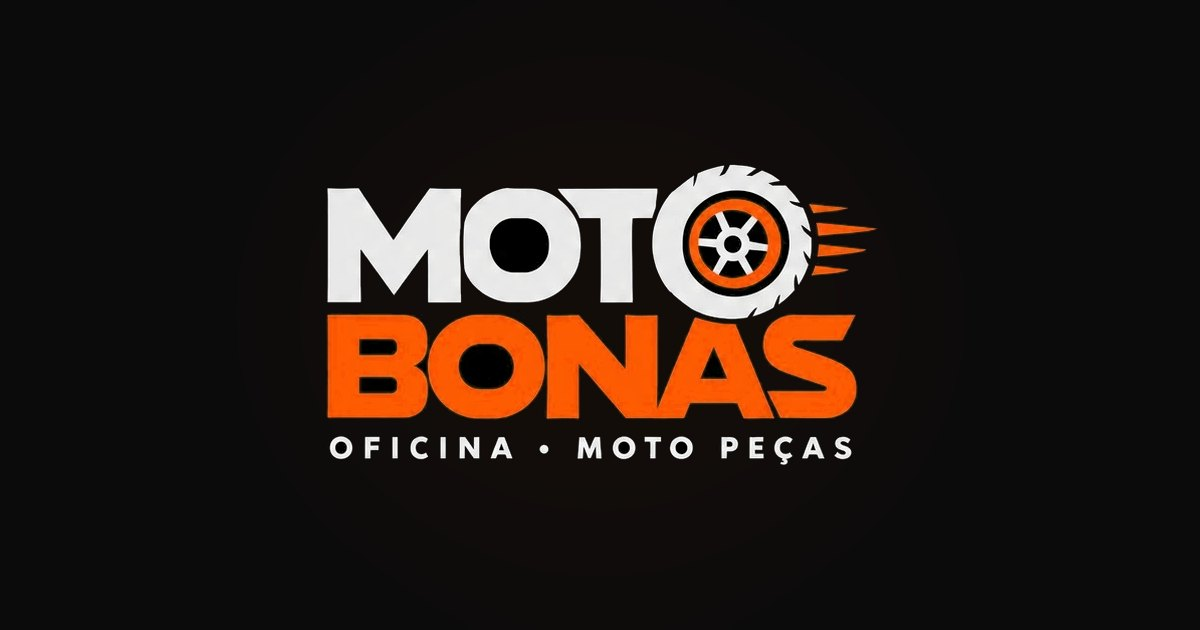
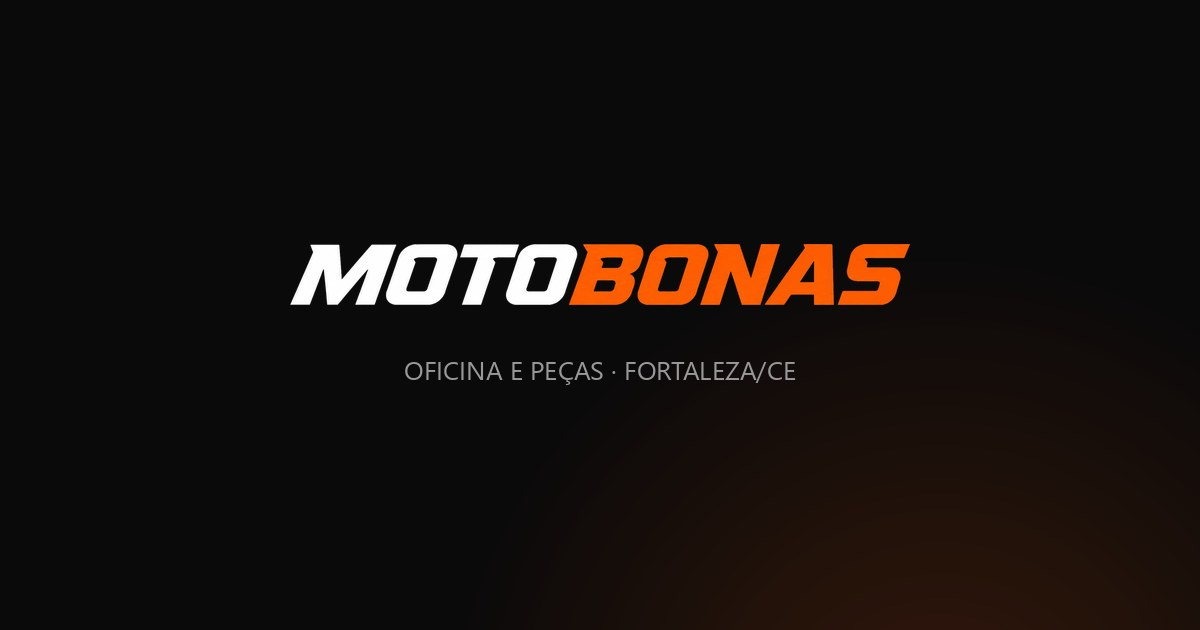
ss

Changed region(s): [[0.2467, 0.2413, 0.7708, 0.6635], [0.6167, 0.8444, 0.925, 1.0], [0.2775, 0.6937, 0.7092, 0.754]]

diff --git a/index.html b/index.html
@@ -13,22 +13,22 @@
 <meta property="og:url" content="https://motobonas.com.br/">
 <meta property="og:title" content="MOTOBONAS | Oficina e Peças para Motos">
 <meta property="og:description" content="Entra moto. Sai máquina. Oficina especializada e peças em Fortaleza/CE.">
-<meta property="og:image" content="https://motobonas.com.br/assets/og-image.jpg">
+<meta property="og:image" content="https://motobonas.com.br/assets/og-image-2026.jpg">
 <meta property="og:image:width" content="1200">
 <meta property="og:image:height" content="630">
 <meta property="og:image:alt" content="Motobonas — oficina e peças para motos em Fortaleza">
 <meta name="twitter:card" content="summary_large_image">
 <meta name="twitter:title" content="MOTOBONAS | Oficina e Peças para Motos">
 <meta name="twitter:description" content="Entra moto. Sai máquina. Oficina especializada e peças em Fortaleza/CE.">
-<meta name="twitter:image" content="https://motobonas.com.br/assets/og-image.jpg">
+<meta name="twitter:image" content="https://motobonas.com.br/assets/og-image-2026.jpg">
 <link rel="icon" href="/favicon.ico" sizes="any">
-<link rel="apple-touch-icon" href="assets/favicon.png">
+<link rel="apple-touch-icon" href="assets/apple-touch-icon.png">
 <link rel="preload" href="assets/fonts/inter-latin.woff2" as="font" type="font/woff2" crossorigin>
 <link rel="preload" as="image" href="assets/hero-800.webp" media="(max-width:640px)">
 <link rel="preload" as="image" href="assets/hero-1200.webp" media="(min-width:641px)">
 <script>document.documentElement.className+=' js';</script>
 <script type="application/ld+json">
-{"@context":"https://schema.org","@type":"AutoRepair","@id":"https://motobonas.com.br/#oficina","name":"Moto Bonas Peças Acessórios Serviços","description":"Oficina especializada em motos de média e alta cilindrada e loja de peças originais em Fortaleza/CE.","telephone":"+55-85-99400-2002","url":"https://motobonas.com.br","image":"https://motobonas.com.br/assets/og-image.jpg","logo":"https://motobonas.com.br/assets/logo-2026-320.webp","priceRange":"$$","foundingDate":"2004-05-05","currenciesAccepted":"BRL","address":{"@type":"PostalAddress","streetAddress":"Rua 24 de Maio, 1102","addressLocality":"Fortaleza","addressRegion":"CE","postalCode":"60020-000","addressCountry":"BR"},"geo":{"@type":"GeoCoordinates","latitude":-3.7312172,"longitude":-38.5334497},"hasMap":"https://www.google.com/maps/search/?api=1&query=Moto+Bonas+Rua+24+de+Maio+1102+Centro+Fortaleza","areaServed":{"@type":"City","name":"Fortaleza"},"openingHoursSpecification":[{"@type":"OpeningHoursSpecification","dayOfWeek":["Monday","Tuesday","Wednesday","Thursday","Friday"],"opens":"08:00","closes":"17:30"},{"@type":"OpeningHoursSpecification","dayOfWeek":"Saturday","opens":"08:00","closes":"13:00"}],"sameAs":["https://www.instagram.com/moto_bonas","https://www.mercadolivre.com.br/pagina/motobonas"],"aggregateRating":{"@type":"AggregateRating","ratingValue":"4.6","reviewCount":"114"}}
+{"@context":"https://schema.org","@type":"AutoRepair","@id":"https://motobonas.com.br/#oficina","name":"Moto Bonas Peças Acessórios Serviços","description":"Oficina especializada em motos de média e alta cilindrada e loja de peças originais em Fortaleza/CE.","telephone":"+55-85-99400-2002","url":"https://motobonas.com.br","image":"https://motobonas.com.br/assets/og-image-2026.jpg","logo":"https://motobonas.com.br/assets/logo-mb-dark-800.webp","priceRange":"$$","foundingDate":"2004-05-05","currenciesAccepted":"BRL","address":{"@type":"PostalAddress","streetAddress":"Rua 24 de Maio, 1102","addressLocality":"Fortaleza","addressRegion":"CE","postalCode":"60020-000","addressCountry":"BR"},"geo":{"@type":"GeoCoordinates","latitude":-3.7312172,"longitude":-38.5334497},"hasMap":"https://www.google.com/maps/search/?api=1&query=Moto+Bonas+Rua+24+de+Maio+1102+Centro+Fortaleza","areaServed":{"@type":"City","name":"Fortaleza"},"openingHoursSpecification":[{"@type":"OpeningHoursSpecification","dayOfWeek":["Monday","Tuesday","Wednesday","Thursday","Friday"],"opens":"08:00","closes":"17:30"},{"@type":"OpeningHoursSpecification","dayOfWeek":"Saturday","opens":"08:00","closes":"13:00"}],"sameAs":["https://www.instagram.com/moto_bonas","https://www.mercadolivre.com.br/pagina/motobonas"],"aggregateRating":{"@type":"AggregateRating","ratingValue":"4.6","reviewCount":"114"}}
 </script>
 <script type="application/ld+json">
 {"@context":"https://schema.org","@type":"FAQPage","mainEntity":[
@@ -75,7 +75,14 @@ header{position:fixed;top:0;left:0;right:0;z-index:50;display:flex;align-items:c
   padding:20px clamp(20px,4vw,60px);transition:.4s;border-bottom:1px solid transparent}
 header.scrolled{background:rgba(0,0,0,.9);backdrop-filter:blur(12px);border-bottom-color:var(--line-soft)}
 .brand{display:flex;align-items:center;gap:14px}
-.brand img{height:46px;width:auto;object-fit:contain;filter:invert(1) hue-rotate(180deg)}
+.brand img{height:clamp(20px,3vw,32px);width:auto;object-fit:contain}
+.brand .lg-light{display:none}
+img.lg-light{display:none}
+html[data-theme="light"] img.lg-dark{display:none}
+html[data-theme="light"] img.lg-light{display:block}
+/* menu móvel é sempre escuro: usa sempre a logo clara */
+html[data-theme="light"] .mnav-brand img.lg-dark{display:block}
+html[data-theme="light"] .mnav-brand img.lg-light{display:none}
 .brand .bt{font-size:12px;font-weight:400;letter-spacing:.24em;line-height:1.6}
 .brand .bt b{color:var(--accent);font-weight:500}
 nav.desk{display:flex;gap:36px;font-size:12px;font-weight:400;letter-spacing:.2em}
@@ -245,7 +252,7 @@ footer{border-top:1px solid var(--line);padding:70px 0 44px}
 .foot-grid{display:grid;grid-template-columns:1.2fr .8fr 1fr;gap:clamp(24px,5vw,70px);margin:40px 0 44px;align-items:start}
 .foot-grid .m{font-size:11px;letter-spacing:.2em;color:var(--dim);line-height:2.2}
 .foot-grid .m b{color:var(--accent);font-weight:500}
-.fcol img{margin-bottom:20px;height:auto;max-width:150px;filter:invert(1) hue-rotate(180deg)}
+.fcol img{margin-bottom:20px;height:auto;max-width:190px}
 .fh{font-size:10px;letter-spacing:.26em;color:var(--accent);text-transform:uppercase;margin-bottom:14px}
 .fcol a{display:block;font-size:12px;letter-spacing:.14em;color:var(--dim);padding:7px 0;text-transform:uppercase;transition:.25s}
 .fcol a:hover{color:var(--accent)}
@@ -292,7 +299,8 @@ html[data-theme="light"]{--bg:#ffffff;--bg2:#f4f4f3;--ink:#101010;--dim:#5d5d5d;
   --line:rgba(0,0,0,.14);--line-soft:rgba(0,0,0,.07)}
 html[data-theme="light"] header{background:rgba(255,255,255,.78);backdrop-filter:blur(12px);-webkit-backdrop-filter:blur(12px);border-bottom:1px solid var(--line-soft)}
 html[data-theme="light"] header.scrolled{background:rgba(255,255,255,.94)}
-html[data-theme="light"] .brand img{filter:none}
+html[data-theme="light"] .brand .lg-dark{display:none}
+html[data-theme="light"] .brand .lg-light{display:block}
 html[data-theme="light"] .hero{color:#fff}
 html[data-theme="light"] .hero h1{color:#fff}
 html[data-theme="light"] .hero .lead{color:rgba(255,255,255,.74)}
@@ -331,7 +339,7 @@ html[data-theme="light"] .status.aberto{color:#0f7a3d}
     align-items:center;justify-content:center;gap:32px;opacity:0;pointer-events:none;transition:.4s}
   .mnav.open{opacity:1;pointer-events:auto}
   .mnav a{font-weight:300;font-size:34px;text-transform:uppercase;letter-spacing:.06em}
-  .mnav-brand img{width:132px;height:auto;object-fit:contain;margin-bottom:6px;filter:invert(1) hue-rotate(180deg)}
+  .mnav-brand img{width:auto;height:34px;object-fit:contain;margin-bottom:6px}
   .mnav a.on{color:var(--accent)}
   body.menu-open{overflow:hidden}
   body.menu-open header{z-index:80;background:transparent;border-bottom-color:transparent;backdrop-filter:none;-webkit-backdrop-filter:none}
@@ -362,7 +370,8 @@ html[data-theme="light"] .status.aberto{color:#0f7a3d}
 
 <header id="hdr">
   <a class="brand" href="#topo" aria-label="Motobonas - início">
-    <img src="assets/logo-2026-160.webp" srcset="assets/logo-2026-160.webp 160w, assets/logo-2026-320.webp 320w" sizes="80px" alt="Moto Bonas - Oficina e Moto Peças" width="80" height="46">
+    <img class="lg-dark" src="assets/logo-mb-dark-400.webp" srcset="assets/logo-mb-dark-400.webp 400w, assets/logo-mb-dark-800.webp 800w" sizes="320px" alt="Moto Bonas - Oficina e Moto Peças" width="400" height="39">
+    <img class="lg-light" src="assets/logo-mb-light-400.webp" srcset="assets/logo-mb-light-400.webp 400w, assets/logo-mb-light-800.webp 800w" sizes="320px" alt="" aria-hidden="true" width="400" height="39">
   </a>
   <nav class="desk" aria-label="Navegação principal">
     <a href="#oficina">A OFICINA</a>
@@ -382,7 +391,10 @@ html[data-theme="light"] .status.aberto{color:#0f7a3d}
   </div>
 </header>
 <nav class="mnav" id="mnav" aria-label="Menu móvel">
-  <a href="#topo" class="mnav-brand" aria-label="Motobonas - início"><img src="assets/logo-2026-320.webp" alt="Moto Bonas - Oficina e Moto Peças" width="132" height="76"></a>
+  <a href="#topo" class="mnav-brand" aria-label="Motobonas - início">
+    <img class="lg-dark" src="assets/logo-mb-dark-800.webp" alt="Moto Bonas - Oficina e Moto Peças" width="800" height="79">
+    <img class="lg-light" src="assets/logo-mb-light-800.webp" alt="" aria-hidden="true" width="800" height="79">
+  </a>
   <a href="#oficina">A oficina</a><a href="#servicos">Serviços</a><a href="#pecas">Peças</a><a href="#sobre">Sobre</a><a href="#equipe">Equipe</a><a href="#contato">Contato</a>
   <a class="on" href="https://wa.me/5585994002002?text=Ol%C3%A1!%20Vim%20pelo%20site%20da%20Motobonas." target="_blank" rel="noopener" data-wa>WhatsApp</a>
 </nav>
@@ -596,6 +608,10 @@ html[data-theme="light"] .status.aberto{color:#0f7a3d}
           <div class="info"><h3>Felipe</h3><p>Mecânico</p></div>
         </article>
         <article class="team-card rise">
+          <img src="equipe/Julia%20-%20Estoquista.png" width="400" height="400" alt="Julia, estoquista da Moto Bonas" loading="lazy" decoding="async">
+          <div class="info"><h3>Julia</h3><p>Estoquista</p></div>
+        </article>
+        <article class="team-card rise">
           <img src="equipe/Maicon%20-%20Chefe%20de%20Oficina.png" width="400" height="400" alt="Maicon, chefe de oficina da Moto Bonas" loading="lazy" decoding="async">
           <div class="info"><h3>Maicon</h3><p>Chefe de oficina</p></div>
         </article>
@@ -687,7 +703,7 @@ html[data-theme="light"] .status.aberto{color:#0f7a3d}
   <div class="wrap">
     <div class="foot-grid">
       <div class="fcol">
-        <img src="assets/logo-2026-320.webp" alt="Motobonas" width="150" height="86" loading="lazy">
+        <img src="assets/logo-mb-dark-800.webp" alt="Motobonas" width="400" height="39" loading="lazy">
         <p class="m"><b>MOTOBONAS</b> · PEÇAS E ACESSÓRIOS<br>OFICINA ESPECIALIZADA · FORTALEZA/CE<br>DESDE 2004</p>
       </div>
       <nav class="fcol" aria-label="Navegação do rodapé">

diff --git a/privacidade.html b/privacidade.html
@@ -9,7 +9,7 @@
 <meta name="robots" content="index,follow">
 <meta name="theme-color" content="#000000">
 <link rel="icon" href="assets/favicon.ico" sizes="any">
-<link rel="icon" type="image/png" href="assets/favicon.png">
+<link rel="icon" type="image/png" href="assets/favicon-2026.png">
 <link rel="preload" href="assets/fonts/inter-latin.woff2" as="font" type="font/woff2" crossorigin>
 <style>
 @font-face{font-family:'Inter';font-style:normal;font-weight:200 600;font-display:swap;
@@ -27,7 +27,7 @@ a:hover{text-decoration:underline}
 .wrap{max-width:820px;margin:0 auto;padding:clamp(28px,6vw,72px) clamp(20px,4vw,40px)}
 header{border-bottom:1px solid var(--line);padding-bottom:26px;margin-bottom:clamp(28px,5vw,52px)}
 .logo{display:inline-flex;align-items:center;gap:12px;margin-bottom:28px}
-.logo img{height:44px;width:auto;filter:invert(1) hue-rotate(180deg)}
+.logo img{height:26px;width:auto}
 h1{font-size:clamp(28px,4.6vw,44px);font-weight:300;letter-spacing:.02em;text-transform:uppercase;line-height:1.1}
 .sub{font-size:12px;letter-spacing:.22em;text-transform:uppercase;color:var(--dim);margin-top:14px}
 h2{font-size:16px;font-weight:500;letter-spacing:.06em;text-transform:uppercase;margin:36px 0 10px;color:var(--ink)}
@@ -45,7 +45,7 @@ footer a{color:var(--accent)}
 <body>
 <div class="wrap">
   <header>
-    <a class="logo" href="/" aria-label="Motobonas - página inicial"><img src="assets/logo-2026-320.webp" alt="Motobonas" width="150" height="86"></a>
+    <a class="logo" href="/" aria-label="Motobonas - página inicial"><img src="assets/logo-mb-dark-400.webp" alt="Motobonas" width="400" height="39"></a>
     <h1>Política de Privacidade</h1>
     <p class="sub">Última atualização: outubro de 2026</p>
   </header>

diff --git a/design.md b/design.md
@@ -35,6 +35,8 @@ Uma família só: **Inter** (variável, 200–600), self-hosted em `assets/fonts
 
 ## Imagens
 
+- **Logo**: duas variantes do wordmark (`Logo MOTOBONAS.png` com letras brancas para o tema escuro e `Logo MOTOBONAS em Preto.png` para o tema claro). Em `assets/`: `logo-mb-dark-{400,800,1200}.webp` e `logo-mb-light-{400,800,1200}.webp`, ambas RGBA com o laranja `#fd5d04` da marca preservado. O header troca por CSS (`img.lg-dark` / `img.lg-light`); o menu mobile é sempre escuro e por isso sempre usa a variante clara. Nenhuma das duas usa `filter` — o `invert(1)` antigo distorcia o laranja.
+- `assets/og-image.jpg` (1200x630) e `assets/favicon.png` (512x512) são gerados a partir da mesma marca.
 - Sempre `<picture>` com AVIF + WebP e `srcset` (480 / 800 / 1200 + maior), `sizes` coerente com o layout.
 - Fotos: `width`/`height` explícitos, `loading="lazy"`, `decoding="async"`.
 - Retratos da equipe ficam em `equipe/`, com `object-fit: cover` para preservar o enquadramento quadrado.

diff --git a/CHANGELOG.md b/CHANGELOG.md
@@ -1,5 +1,11 @@
 # Changelog — site Motobonas
 
+## Nov/2026 — logo oficial e novo colaborador
+
+- **Logo correta aplicada.** O site usava `logo-2026-*` com `filter:invert(1) hue-rotate(180deg)`, que distorcia o laranja da marca. Agora existem duas variantes reais do wordmark oficial: `assets/logo-mb-dark-{400,800,1200}.webp` (letras brancas, tema escuro) e `assets/logo-mb-light-{400,800,1200}.webp` (letras pretas, tema claro), ambas RGBA com o laranja `#fd5d04` preservado. A troca é por CSS (`img.lg-dark` / `img.lg-light`), sem filtro. Aplicada no header, menu mobile (sempre escuro → variante clara), rodapé (sempre escuro) e página de privacidade.
+- `assets/og-image.jpg` e `assets/favicon.png` regerados a partir da mesma marca; JSON-LD `logo` aponta para a nova imagem.
+- **Novo colaborador**: Julia, estoquista (`equipe/Julia - Estoquista.png`, 400x400), incluída na grade da seção Equipe.
+
 ## Out/2026 — auditoria e correções
 
 ### Correção do fundo dos cards Oficina/Peças
